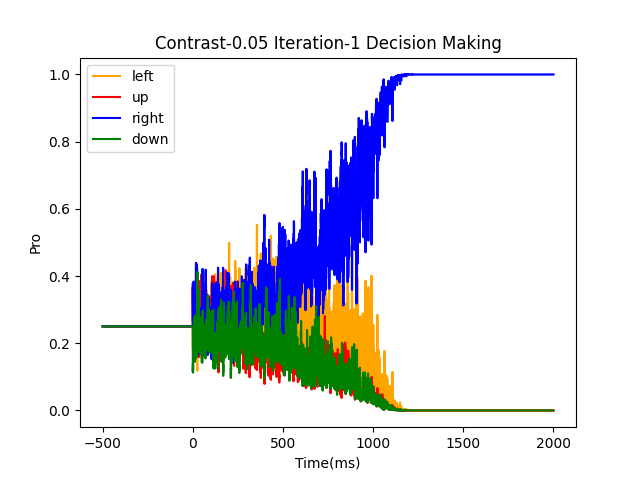
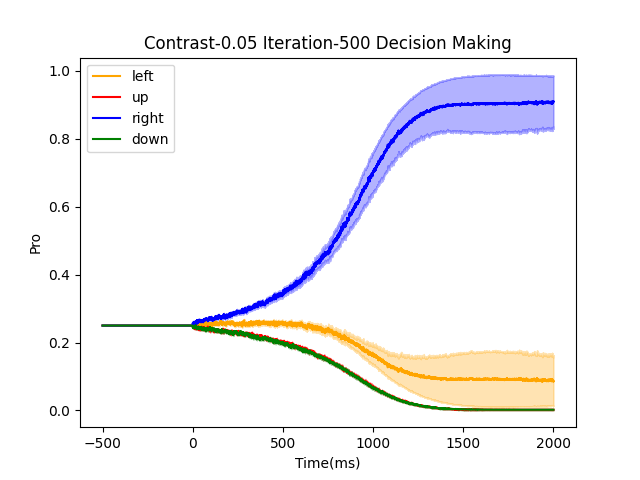
update

diff --git a/network/energy_motion_4dirction_low.py b/network/energy_motion_4dirction_low.py
@@ -194,8 +194,10 @@ def smoothing(data):
 plt.figure
 hue = ['orange', 'red', 'blue', 'green']
 
-sum_plot=0
-iter=1
+sum_plot=4
+#3 decision with smoothing
+
+iter=500
 for cprime in [0.05]:
   if sum_plot==0:
     for i in range(iter):
@@ -324,4 +326,53 @@ for cprime in [0.05]:
       # plt.text(-125, 16, 'Threshold')
       plt.legend()
       plt.savefig('./figs/psychophysics_'+str(cprime)+'.png')
+      plt.show()
+  elif sum_plot == 4:
+      from scipy.special import softmax
+      left_con = []
+      up_con=[]
+      right_con=[]
+      down_con=[]
+
+      for i in range(iter):
+          print(i)
+          result = experiment(cprime)
+          result = np.asarray(result)
+          result = softmax(result, axis=0)
+          hue = ['orange', 'red', 'blue', 'green']
+          left_con.append(smoothing(result[0]))
+          up_con.append(smoothing(result[1]))
+          right_con.append(smoothing(result[2]))
+          down_con.append(smoothing(result[3]))
+
+      left_con=np.asarray(left_con)
+      left_mean=left_con.mean(axis=0)
+      left_var = left_con.var(axis=0)
+
+      right_con=np.asarray(right_con)
+      right_mean=right_con.mean(axis=0)
+      right_var = right_con.var(axis=0)
+
+      up_con = np.asarray(up_con)
+      up_mean = up_con.mean(axis=0)
+      up_var = up_con.var(axis=0)
+
+      down_con = np.asarray(down_con)
+      down_mean = down_con.mean(axis=0)
+      down_var = down_con.var(axis=0)
+      plt.plot(time * 1000, left_mean, color=hue[0], label='left')
+      plt.plot(time * 1000, up_mean, color=hue[1], label='up')
+      plt.plot(time * 1000, right_mean, color=hue[2], label='right')
+      plt.plot(time * 1000, down_mean, color=hue[3], label='down')
+      plt.fill_between(time * 1000, left_mean-left_var, left_mean+left_var, color=hue[0],alpha=0.3)
+      plt.fill_between(time * 1000, up_mean - up_var, up_mean + up_var, color=hue[1], alpha=0.3)
+      plt.fill_between(time * 1000, right_mean - right_var, right_mean + right_var, color=hue[2], alpha=0.3)
+      plt.fill_between(time * 1000, down_mean - down_var, down_mean + down_var, color=hue[3], alpha=0.3)
+      # plt.plot(time * 1000, 15 * np.ones(steps))
+      plt.xlabel('Time(ms)')
+      plt.ylabel('Pro')
+      plt.title('Contrast-'+str(cprime)+' Iteration-'+str(iter)+' Decision Making(Smoothing)')
+      # plt.text(-125, 16, 'Threshold')
+      plt.legend()
+      plt.savefig('./figs/psychophysics_'+str(cprime)+'_smoothing.png')
       plt.show()

diff --git a/network/energy_motion_4dirction_high.py b/network/energy_motion_4dirction_high.py
@@ -193,8 +193,8 @@ def smoothing(data):
 
 
 plt.figure
-sum_plot=0
-iter=1
+sum_plot=4
+iter=500
 for cprime in [0.99]:
   if sum_plot==0:
     for i in range(iter):
@@ -321,4 +321,54 @@ for cprime in [0.99]:
       # plt.text(-125, 16, 'Threshold')
       plt.legend()
       plt.savefig('./figs/psychophysics_'+str(cprime)+'.png')
+      plt.show()
+  elif sum_plot == 4:
+      from scipy.special import softmax
+      left_con = []
+      up_con=[]
+      right_con=[]
+      down_con=[]
+
+      for i in range(iter):
+          print(i)
+          result = experiment(cprime)
+          result = np.asarray(result)
+          result = softmax(result, axis=0)
+          hue = ['orange', 'red', 'blue', 'green']
+          left_con.append(smoothing(result[0]))
+          up_con.append(smoothing(result[1]))
+          right_con.append(smoothing(result[2]))
+          down_con.append(smoothing(result[3]))
+
+      left_con=np.asarray(left_con)
+      left_mean=left_con.mean(axis=0)
+      left_var = left_con.var(axis=0)
+
+      right_con=np.asarray(right_con)
+      right_mean=right_con.mean(axis=0)
+      right_var = right_con.var(axis=0)
+
+      up_con = np.asarray(up_con)
+      up_mean = up_con.mean(axis=0)
+      up_var = up_con.var(axis=0)
+
+      down_con = np.asarray(down_con)
+      down_mean = down_con.mean(axis=0)
+      down_var = down_con.var(axis=0)
+      plt.plot(time * 1000, left_mean, color=hue[0], label='left')
+      plt.plot(time * 1000, up_mean, color=hue[1], label='up')
+      plt.plot(time * 1000, right_mean, color=hue[2], label='right')
+      plt.plot(time * 1000, down_mean, color=hue[3], label='down')
+      plt.fill_between(time * 1000, left_mean-left_var, left_mean+left_var, color=hue[0],alpha=0.3)
+      plt.fill_between(time * 1000, up_mean - up_var, up_mean + up_var, color=hue[1], alpha=0.3)
+      plt.fill_between(time * 1000, right_mean - right_var, right_mean + right_var, color=hue[2], alpha=0.3)
+      plt.fill_between(time * 1000, down_mean - down_var, down_mean + down_var, color=hue[3], alpha=0.3)
+      # plt.plot(time * 1000, 15 * np.ones(steps))
+      plt.xlabel('Time(ms)')
+      plt.ylabel('Pro')
+      plt.xlim(-250, 550)
+      plt.title('Contrast-'+str(cprime)+' Iteration-'+str(iter)+' Decision Making(Smoothing)')
+      # plt.text(-125, 16, 'Threshold')
+      plt.legend()
+      plt.savefig('./figs/psychophysics_'+str(cprime)+'_smoothing.png')
       plt.show()
